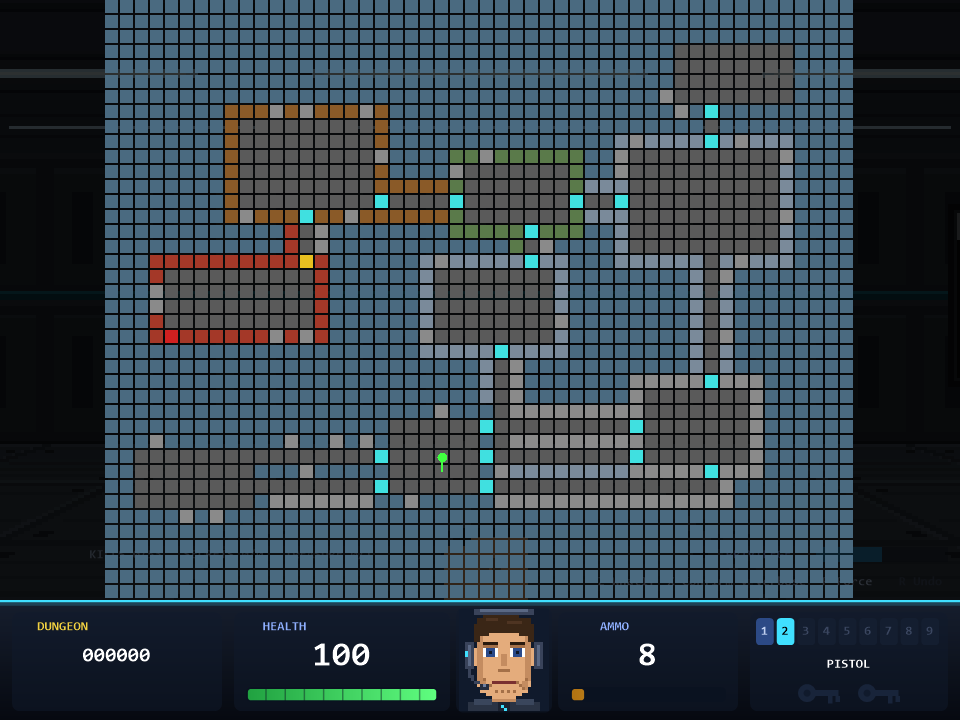
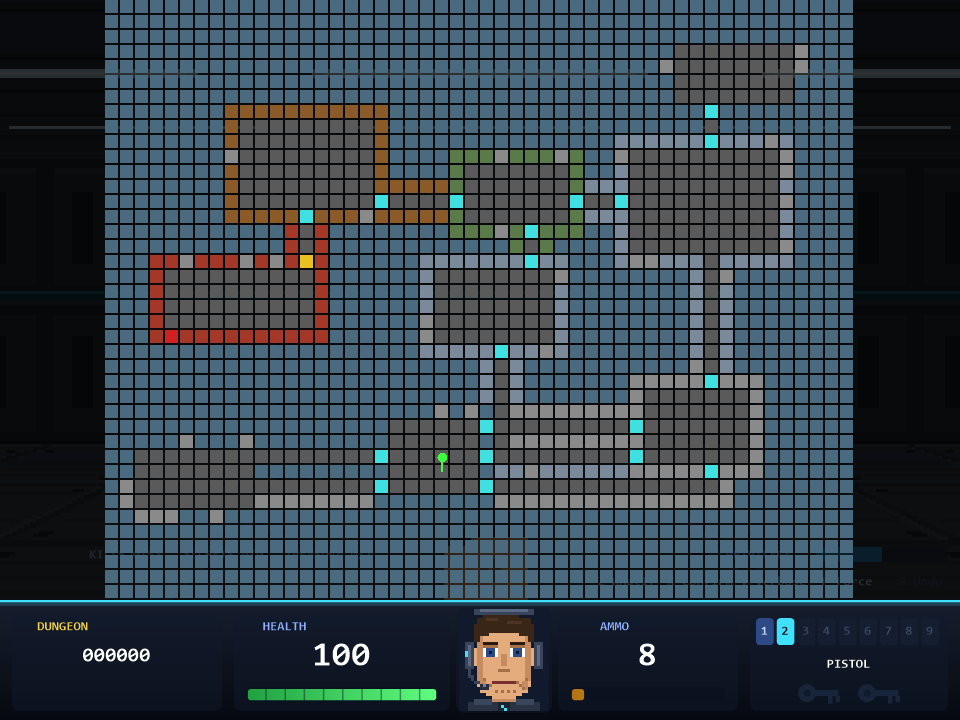
Remove the neon signs hanging from the ceiling
They looked like terminals but could not be used, and they got in the way of
the view. Consoles, posters, error screens and neon panels on the walls stay,
and so do the racks and desks that open the console. Maps, screenshots and the
attract demo regenerated.

diff --git a/README.md b/README.md
@@ -229,7 +229,7 @@ privilege once. It is safe to type anything: the console runs in a second runspa
 `ConstrainedLanguage`, and two seconds per line. `Remove-Item C:\ -Recurse -Force` gets a polite answer.
 
 **Everywhere you look.** Consoles on the walls (each wall type has its own one-liner; the one in the caves is long
-dead and overgrown), red `ACCESS DENIED` screens, `Get-Help` posters ("Verb-Noun. Always."), neon `>_` signs,
+dead and overgrown), red `ACCESS DENIED` screens, `Get-Help` posters ("Verb-Noun. Always."), neon `>_` panels,
 graffiti, server racks, desks with CRTs. The level generator spreads them over every floor.
 
 **The transcript.** Every floor writes a `Start-Transcript`-style log into `saves/transcripts` – what you killed with
@@ -487,7 +487,7 @@ and any number of `@spawn <min. difficulty> <x> <y> <enemy code>` reinforcements
 | `@1`–`@9` | teleporter pad (two pads with the same number form a pair) |
 | `+d +f +h` `+a +o +z` `+m +c +p +r +l +t +j` `+g +s` `+1 +2 +3 +4` `+u +q` | dog food, food, first aid · clip, rockets, Force charge · machine gun, chain gun, Pipeline Cannon, Force Blaster, rocket launcher, flamethrower, throwing knives · keys · treasures · extra life, SUDO |
 | `*l *h *L *t *b *p *a *c *f *x *v *s *u *k *B *m *g` `*e` | decoration: ceiling lamp, chandelier, floor lamp, table, barrel, plant, suit of armour, column, flag, crates, vat, bones, puddle, dead guard, bed, console, stalagmite · **explosive barrel** |
-| `*r *T *n` | server rack and desk with a CRT (both open the console when "used"), a neon `>_` hanging from the ceiling |
+| `*r *T` | server rack and desk with a CRT (both open the console when "used") |
 
 The bundled maps are generated by [tools/New-Levels.ps1](tools/New-Levels.ps1) from room lists – rooms are rectangles
 carved out of solid rock; where they touch they merge into corridors and caves – and decorated with PowerShell
